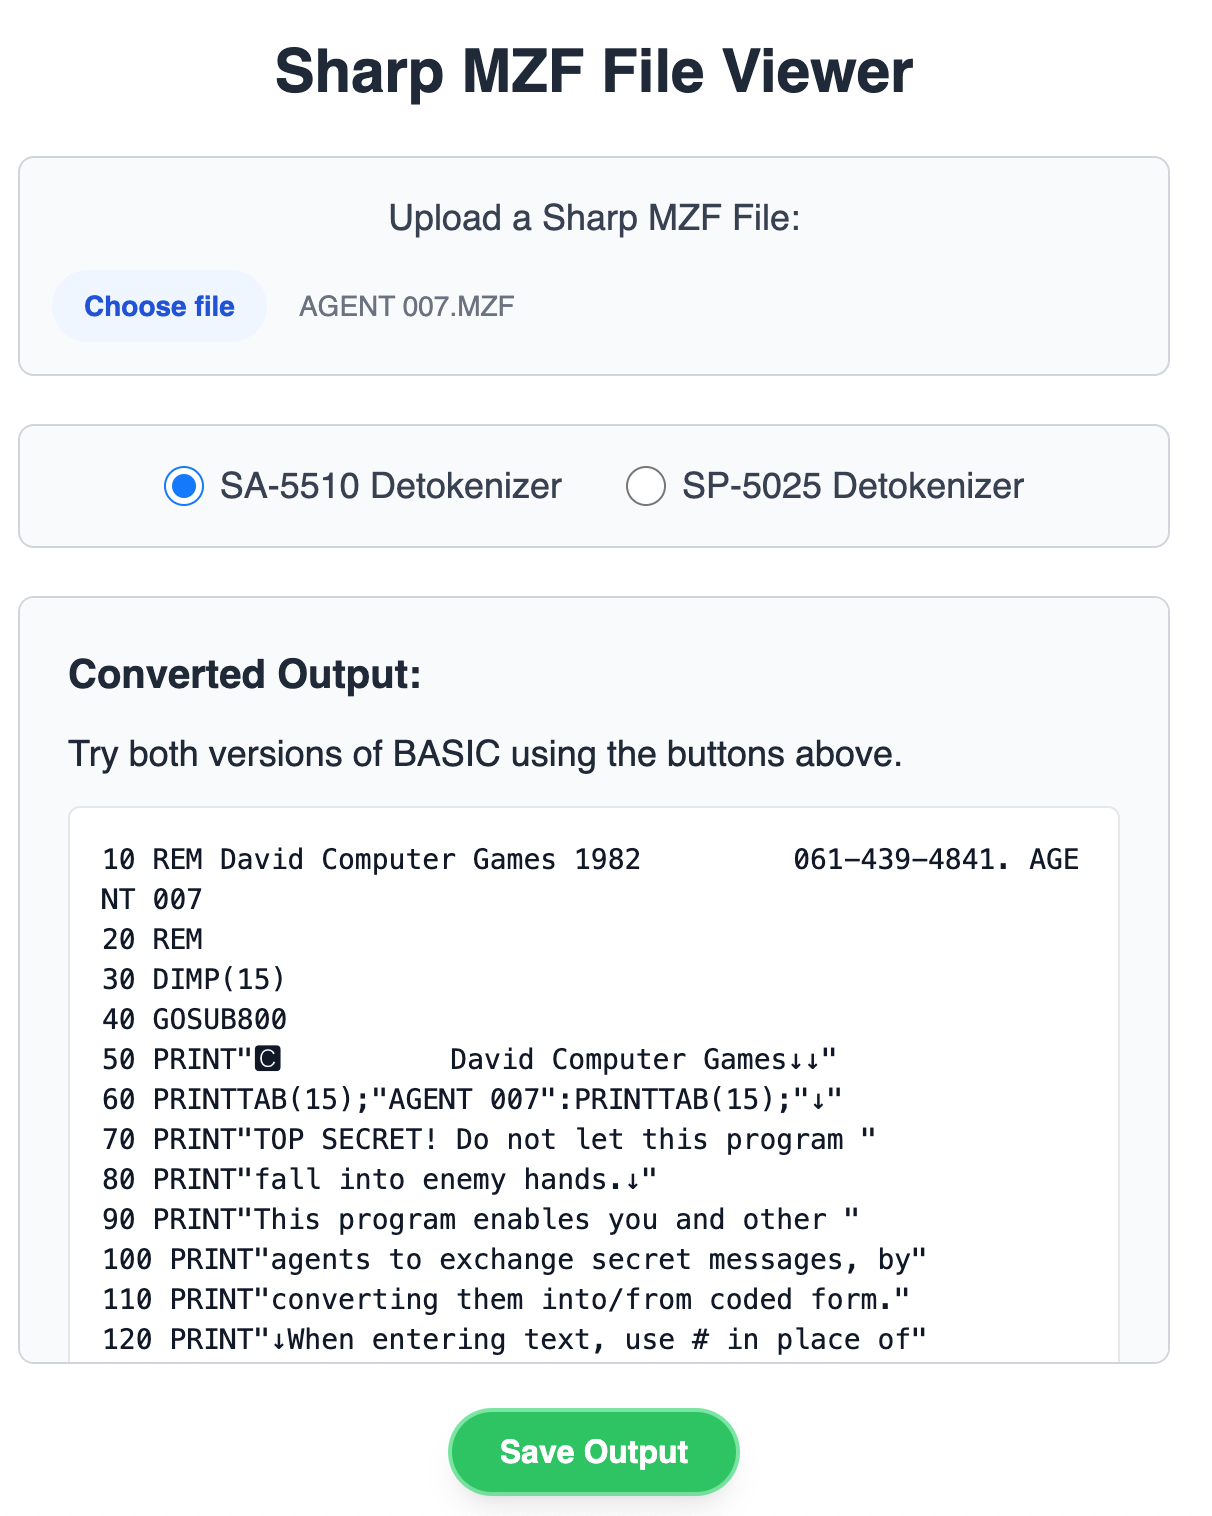
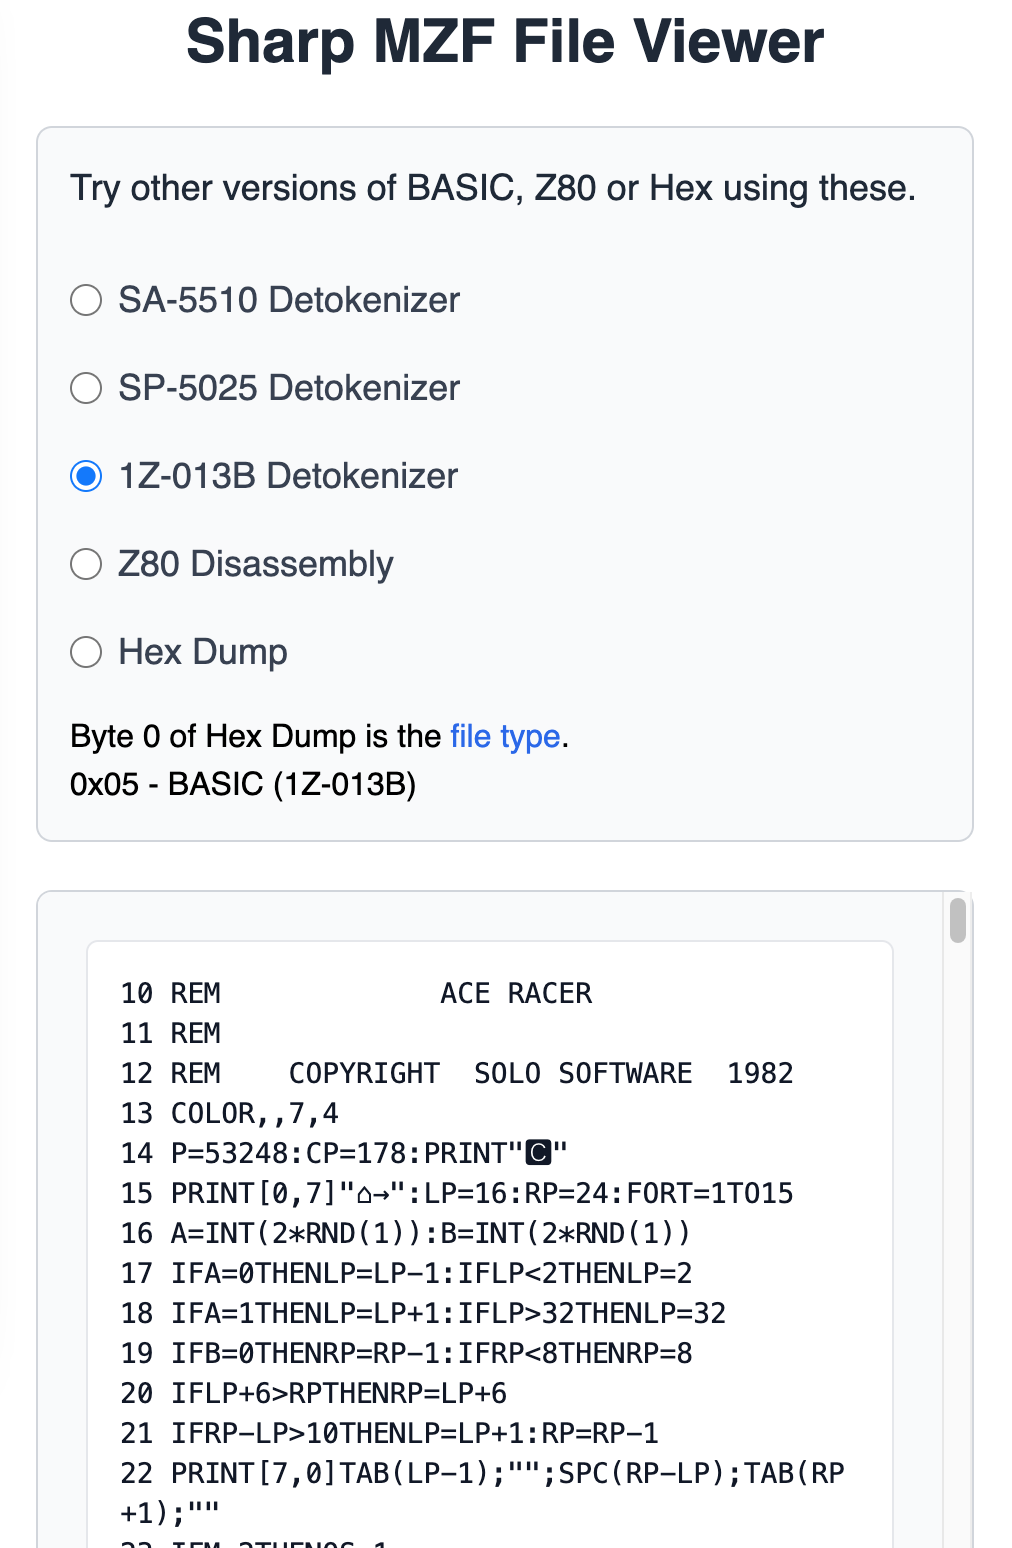
added lowercase chars from Sharp MZ option.  Checking and reporting the filetype from byte 0

diff --git a/index.html b/index.html
@@ -64,40 +64,51 @@
         </div>
 
         <!-- Conversion Mode Selection -->
-        <div class="flex justify-center space-x-8 p-4 border border-gray-300 rounded-lg bg-gray-50">
+       <div class="grid grid-cols-1 md:grid-cols-3 gap-4 p-4 border border-gray-300 rounded-lg bg-gray-50">
+            <div class="col-span-full">
+                <p id="useAlt" class="text-lg text-gray-800 mb-3">Try other versions of BASIC, Z80 or Hex using these.</p>
+            </div>
             <div class="flex items-center">
                 <input type="radio" id="modeSA" name="conversionMode" value="hex" checked
-                       class="form-radio h-5 w-4 text-blue-600 cursor-pointer transition duration-150 ease-in-out">
+                    class="form-radio h-5 w-4 text-blue-600 cursor-pointer transition duration-150 ease-in-out">
                 <label for="modeSA" class="ml-2 text-gray-700 text-lg font-medium">SA-5510 Detokenizer</label>
             </div>
             <div class="flex items-center">
                 <input type="radio" id="modeSP" name="conversionMode" value="ascii"
-                       class="form-radio h-5 w-4 text-blue-600 cursor-pointer transition duration-150 ease-in-out">
+                    class="form-radio h-5 w-4 text-blue-600 cursor-pointer transition duration-150 ease-in-out">
                 <label for="modeSP" class="ml-2 text-gray-700 text-lg font-medium">SP-5025 Detokenizer</label>
             </div>
             <div class="flex items-center">
                 <input type="radio" id="mode1Z" name="conversionMode" value="ascii"
-                       class="form-radio h-5 w-4 text-blue-600 cursor-pointer transition duration-150 ease-in-out">
+                    class="form-radio h-5 w-4 text-blue-600 cursor-pointer transition duration-150 ease-in-out">
                 <label for="mode1Z" class="ml-2 text-gray-700 text-lg font-medium">1Z-013B Detokenizer</label>
             </div>
             <div class="flex items-center">
                 <input type="radio" id="modeZ80" name="conversionMode" value="z80"
-                       class="form-radio h-5 w-4 text-blue-600 cursor-pointer transition duration-150 ease-in-out">
+                    class="form-radio h-5 w-4 text-blue-600 cursor-pointer transition duration-150 ease-in-out">
                 <label for="modeZ80" class="ml-2 text-gray-700 text-lg font-medium">Z80 Disassembly</label>
             </div>
             <div class="flex items-center">
                 <input type="radio" id="modeDump" name="conversionMode" value="dump"
-                       class="form-radio h-5 w-4 text-blue-600 cursor-pointer transition duration-150 ease-in-out">
-                <label for="modeDump" class="ml-2 text-gray-700 text-lg font-medium">ASCII/Hex Dump</label>
+                    class="form-radio h-5 w-4 text-blue-600 cursor-pointer transition duration-150 ease-in-out">
+                <label for="modeDump" class="ml-2 text-gray-700 text-lg font-medium">Hex Dump</label>
+            </div>
+            <div id="charset" class="flex items-center">
+                <input type="checkbox" id="charsetToggle" class="form-checkbox h-5 w-5 text-blue-600 cursor-pointer transition duration-150 ease-in-out">
+                <label for="charsetToggle" class="ml-2 text-gray-700 text-base font-medium">SHARP loweracase</label>
+            </div>
+            <div class="col-span-full">
+                        <p>Byte 0 of Hex Dump is the 
+                <a href="https://sharpmz.no/original/filetypes.htm" class="text-blue-600 hover:underline">file type</a>.
+            </p>
+            <p id="outputType"></p>
             </div>
         </div>
 
         <!-- Output Display Area -->
         <div class="p-6 border border-gray-300 rounded-lg bg-gray-50 max-h-96 overflow-y-auto">
-            <h2 class="text-xl font-semibold text-gray-800 mb-3">Converted Output:</h2>
-            <p id="useAlt" class="text-lg text-gray-800 mb-3">Try other versions of BASIC, Z80 or Hex using the buttons above.</p>
-            <pre id="output" class="text-gray-900 text-sm bg-white p-4 rounded-md border border-gray-200"></pre>
             <p id="message" class="text-red-600 text-sm mt-2 hidden">Please upload a file.</p>
+            <pre id="output" class="text-gray-900 text-sm bg-white p-4 rounded-md border border-gray-200"></pre>
         </div>
 
         <!-- Save Button -->
@@ -137,7 +148,12 @@
         const messageParagraph = document.getElementById('message');
         const useAltParagraph = document.getElementById('useAlt');
         const saveButton = document.getElementById('saveButton');
+        const charset = document.getElementById('charset');
+        const charsetToggle = document.getElementById('charsetToggle');
         const fileInputSection = fileInput.closest('div'); // The file upload section container
+        const outputTypeSpan = document.getElementById('outputType');
+
+        // Initialize fileData and fileName
 
         let fileData = null;
         let fileName = 'MZFBasic';
@@ -153,11 +169,32 @@
         // Check for URL in query string
         const fileUrl = getQueryParam('url');
 
+        // check for mode in query string
+        const modeParam = getQueryParam('mode');
+        if (modeParam) {
+            if (modeParam === 'SA') modeSA.checked = true;
+            else if (modeParam === 'SP') modeSP.checked = true;
+            else if (modeParam === '1Z') mode1Z.checked = true;
+            else if (modeParam === 'Z80') modeZ80.checked = true;   
+            else if (modeParam === 'DUMP') modeDump.checked = true;
+            else modeDump.checked = true; // Default to DUMP if invalid mode
+        } else {
+            modeSP.checked = true; // Default to SP if no mode specified
+        }
+
         // Initialize the WASM module. This must be called before using any WASM functions.
         init().then(() => {
             console.log("WASM module initialized successfully.");
 
             processFile = () => {
+
+                if (modeDump.checked || modeZ80.checked) {
+                    charset.classList.remove('hidden');
+                }
+                else {
+                    charset.classList.add('hidden');
+                }
+
                 if (!fileData) {
                     outputPre.textContent = '';
                     messageParagraph.classList.remove('hidden');
@@ -179,8 +216,22 @@
                 else if (modeDump.checked) mode = 'DUMP';
                 else mode = 'SA';
 
+                
                 try {
-                    const result = process_binary(new Uint8Array(fileData), mode);
+                    const firstbyte = new Uint8Array(fileData)[0];
+                    const typeText = {
+                        0x01: 'Machine Code (Z80)',
+                        0x02: 'BASIC (SP-5025) or BASIC (SA-5510)',
+                        0x05: 'BASIC (1Z-013B)',
+                        // Add more types as needed
+                    }[firstbyte] || 'Unknown Type';
+                    outputTypeSpan.textContent = `0x${firstbyte.toString(16).padStart(2, '0')} - ${typeText}`;
+                } catch (e) {
+                    console.error("Error reading first byte:", e);
+                }
+
+                try {
+                    const result = process_binary(new Uint8Array(fileData), mode, charsetToggle.checked);
                     outputPre.textContent = result;
                 } catch (e) {
                     console.error("Error processing binary:", e);
@@ -311,7 +362,8 @@
             mode1Z.addEventListener('change', () => processFile && processFile());
             modeZ80.addEventListener('change', () => processFile && processFile());
             modeDump.addEventListener('change', () => processFile && processFile());
-
+            charsetToggle.addEventListener('change', () => processFile && processFile());
+            
             // Event listener for the Save button
             saveButton.addEventListener('click', () => {
                 const textToSave = outputPre.textContent;

diff --git a/src/lib.rs b/src/lib.rs
@@ -340,11 +340,12 @@ impl MZDetokenizer {
 /// * `mode` - A string indicating the desired BASIC version for detokenization:
 ///            "hex" for SA-5510 (hexadecimal output from detokenizer, but detokenizer uses SA-5510 rules).
 ///            "ascii" for SP-5025 (ASCII output from detokenizer, but detokenizer uses SP-5025 rules).
+/// * `charsetFlag` - A boolean indicating whether to use the SHARP character set for detokenization.
 ///
 /// # Returns
 /// A `String` containing the detokenized BASIC listing or an error message.
 #[wasm_bindgen]
-pub fn process_binary(data: &[u8], mode: String) -> String {
+pub fn process_binary(data: &[u8], mode: String, charset_flag: bool) -> String {
     // Determine the BASIC version based on the selected mode.
     let version = match mode.as_str() {
         "SA" => MZFEncoding::SA5510, // SA for SA-5510 detokenization
@@ -363,8 +364,8 @@ pub fn process_binary(data: &[u8], mode: String) -> String {
         let exec_address = u16::from_le_bytes([data[0x16], data[0x17]]); // default exec address is found at bytes 0x16,0x17 (LE)
 
         // Disassemble
-        let mut disasm = Z80Disassembler::new();
-        let result = disasm.disassemble(&data[skip_bytes..], start_address, exec_address);
+        let mut disasm = Z80Disassembler::new(detokenizer);
+        let result = disasm.disassemble(&data[skip_bytes..], start_address, exec_address, charset_flag);
 
         // If the mode is Z80, disassemble the Z80 code.
         result.into_iter()
@@ -383,15 +384,24 @@ pub fn process_binary(data: &[u8], mode: String) -> String {
             }
             hex_output.push_str(&format!("{:02X} ", byte));
             if i % 16 == 15 || i == data.len() - 1 {
-                let ascii_part: String = data[i - (i % 16)..=i]
-                    .iter()
-                    .map(|b| if *b >= 32 && *b < 127 {
-                        *b as char
+            let text_part: String = data[i - (i % 16)..=i]
+                .iter()
+                .map(|&b| { 
+                    if b >= 32 && b < 127 {
+                        b as char
+                    } else if charset_flag {
+                        if let Some(&ch) = detokenizer.sharp_ascii.get(&b) {
+                            ch
+                        } else {
+                            '.'
+                        }
                     } else {
                         '.'
-                    })
-                    .collect();
-                hex_output.push_str(&format!(" | {}", ascii_part));
+                    }
+                })
+                .collect();
+
+                hex_output.push_str(&format!(" | {}", text_part));
             }
         }
         hex_output 

diff --git a/src/z80_disasm.rs b/src/z80_disasm.rs
@@ -1,13 +1,18 @@
+use std::char;
+
+use crate::MZDetokenizer;
+
 pub struct Z80Disassembler {
     pc: u16,
+    d: MZDetokenizer,
 }
 
 impl Z80Disassembler {
-    pub fn new() -> Self {
-        Self { pc: 0 }
+    pub fn new(detokenizer: MZDetokenizer) -> Self {
+        Self { pc: 0, d: detokenizer }
     }
 
-    pub fn disassemble(&mut self, data: &[u8], start_address: u16, exec_address: u16) -> Vec<String> {
+    pub fn disassemble(&mut self, data: &[u8], start_address: u16, exec_address: u16, charset_flag: bool) -> Vec<String> {
         let mut result = Vec::new();
         let mut pos = 0;
         self.pc = start_address;
@@ -24,7 +29,15 @@ impl Z80Disassembler {
             
             let ascii = data[pos..pos + bytes_consumed]
                 .iter()
-                .map(|&b| if b.is_ascii_graphic() || b == b' ' { b as char } else { '.' })
+                .map(|&b| if b.is_ascii_graphic() || b == b' ' { b as char } else if charset_flag {
+                        if let Some(&ch) = self.d.sharp_ascii.get(&b) {
+                            ch
+                        } else {
+                            '.'
+                        }
+                    } else {
+                        '.'
+                    })
                 .collect::<String>();
 
             let line = format!("{:04X}: {} {:<12} {:<20} ; {}", self.pc, if exec_address == self.pc { ">" } else { " " }, hex_bytes, instruction, ascii);

diff --git a/README.md b/README.md
@@ -7,6 +7,8 @@ For SP-5025 and SA-5510 Basic
 
 You can access this tool at https://mzfviewer.web.app
 
+https://mzfviewer.web.app/?url=https://mz-archive.co.uk/downloads/files/ACE-RACER-700.mzf&mode=1Z
+
 ![screenshot of the website](screenshot.png)
 
 ## Features
